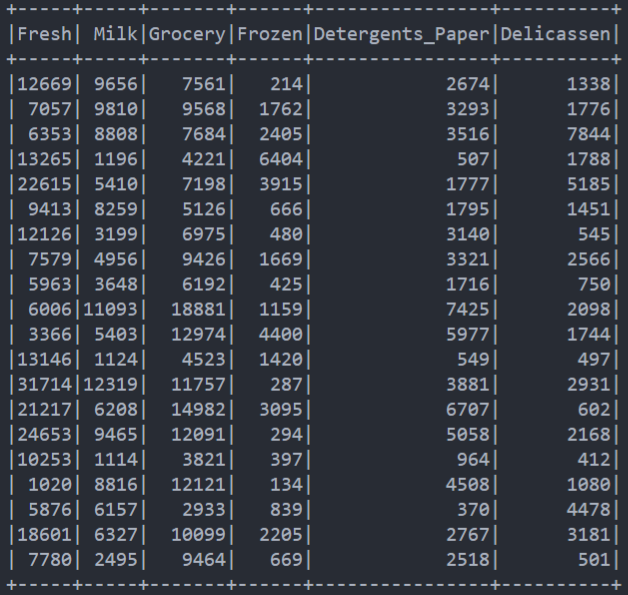
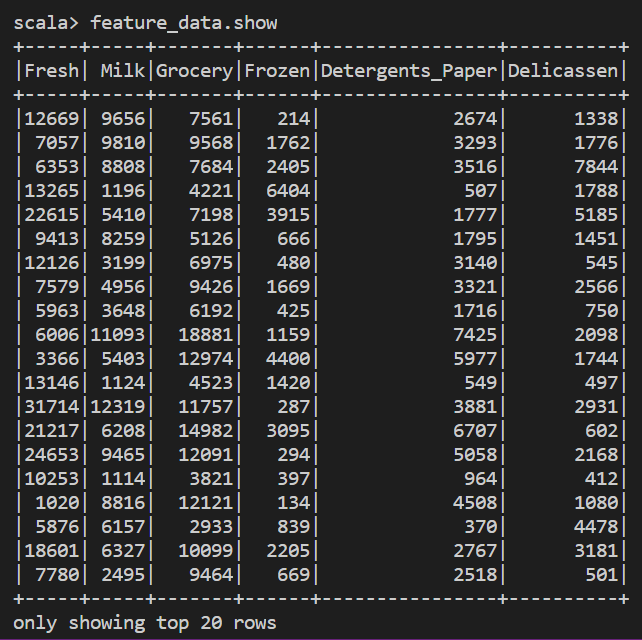
Pamela update in EvaluativePracticeUnit3 format scala & md

diff --git a/evaluation/EvaluativePracticeUnit3.md b/evaluation/EvaluativePracticeUnit3.md
@@ -1,0 +1,90 @@
+## EVALUATIVE PRACTICE UNIT 3 - BIG DATA
+
+**The objective of this practice is to try to group customers from specific regions of a wholesaler. This is based on sales of some product categories.**
+
+In the next set of instructions, each instruction contains the code fulfilling 
+the corresponding purpose.
+
+### 1. Import a simple Spark session.
+
+```scala
+import org.apache.spark.sql.SparkSession
+```
+
+### 2. Use lines of code to minimize errors
+
+```scala
+import org.apache.log4j._
+Logger.getLogger("org").setLevel(Level.ERROR)
+```
+
+### 3. Create an instance of the Spark session
+
+```scala
+val spark = SparkSession.builder.getOrCreate()
+```
+
+### 4. Import the Kmeans library for the clustering algorithm.
+
+```scala
+import org.apache.spark.ml.clustering.KMeans
+```
+
+### 5. Loads the Wholesale Customers Data dataset
+
+```scala
+val dataf = spark.read.option("header", "true").option("inferSchema","true")csv("C:/Users/Admin/Documents/9no Semestre/Datos Masivos/GitHubJosafatGambino/BigData/evaluation/Wholesale_customers_data.csv")
+```
+
+### 6. Select the following columns: Fresh, Milk, Grocery, Frozen, Detergents_Paper, Delicassen and call this set feature_data
+
+```scala
+val feature_data = dataf.select("Fresh", "Milk", "Grocery", "Frozen", "Detergents_Paper", "Delicassen")
+feature_data.show
+```
+![]()
+
+### 7. Import Vector Assembler and Vector
+
+```scala
+import org.apache.spark.ml.feature.VectorAssembler
+import org.apache.spark.mllib.linalg.{Vector, Vectors}
+```
+
+### 8. Create a new Vector Assembler object for the feature columns as an input set, remembering that there are no labels
+
+```scala
+val assembler = new VectorAssembler().setInputCols(Array("Fresh", "Milk", "Grocery", "Frozen", "Detergents_Paper", "Delicassen")).setOutputCol("features")
+```
+
+### 9. Use the assembler object to transform feature_data
+
+```scala
+val features = assembler.transform(feature_data)
+```
+
+### 10. Create a Kmeans model with K = 3
+
+```scala
+val kmeans = new KMeans().setK(3).setSeed(1L)
+val model = kmeans.fit(features)
+```
+
+### 11. Evaluate groups using Within Set Sum of Squared Errors WSSSE and print centroids.
+
+```scala
+val WSSSE = model.computeCost(features)
+```
+![]()
+
+```scala
+println(s"Within set sum of Squared Errors = $WSSSE")
+```
+![]()
+
+```scala
+//Print centroids
+println("Cluster Centers: ")
+model.clusterCenters.foreach(println)
+```
+![]()
